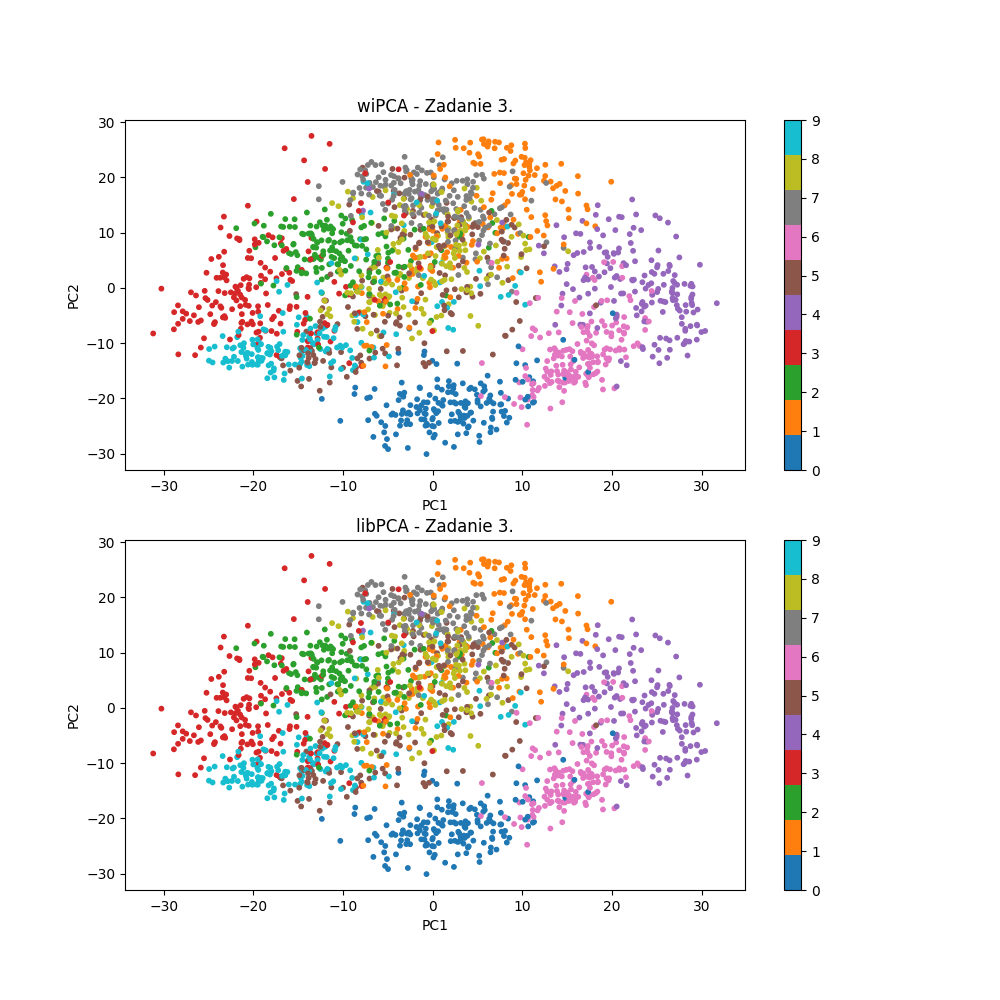
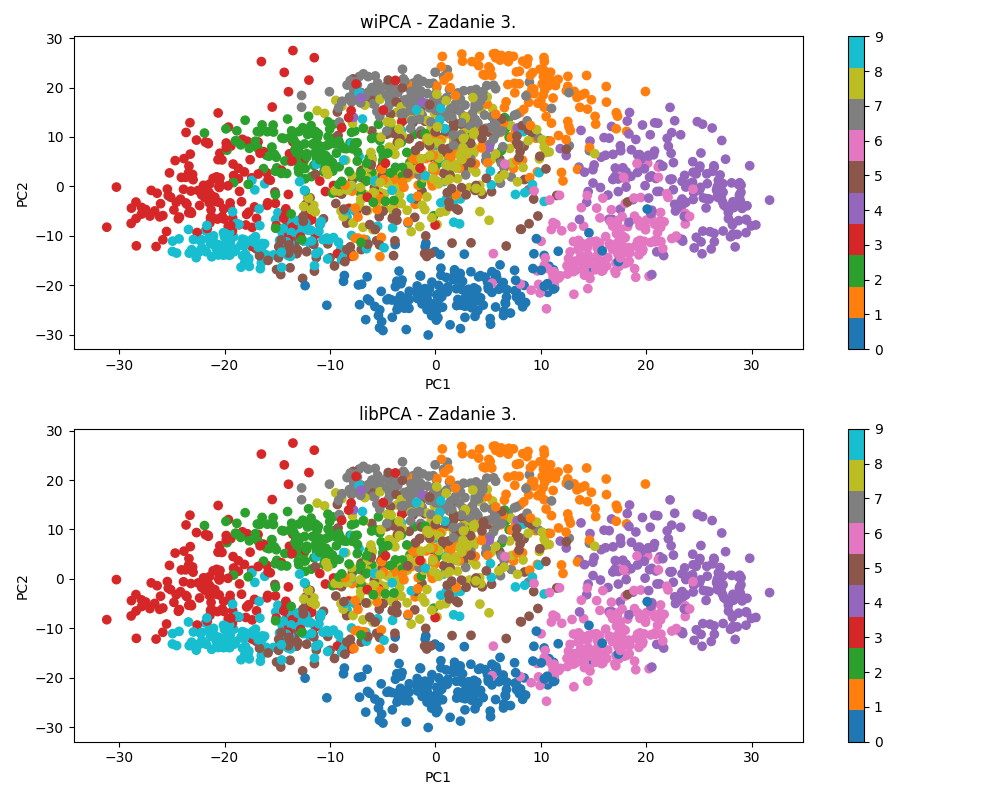
PiAD LAB07

diff --git a/Python/PiAD/LAB07.py b/Python/PiAD/LAB07.py
@@ -13,16 +13,16 @@ def wiPCA(X, dim):
     eigenVals = eigenVals[idx]
     eigenVecs = eigenVecs[:, idx]
     components = eigenVecs[:, :dim]
-    
+
     return X_centered @ components, eigenVecs, eigenVals, mean_vec
 
 
 # zadanie 1
 # a) Generowanie macierzy losowej
 X = np.random.randn(200, 2)
-X[:, 1] = 2 * X[:, 0] + 0.5 * np.random.randn(200)
+X[:, 1] = 0.75 * X[:, 0] + np.random.randn(200)
 
-# b) Wizualizacja
+# b) Wizualizacja losowych punktów
 plt.scatter(X[:, 0], X[:, 1], color='green')
 plt.xlabel("X1")
 plt.ylabel("X2")
@@ -32,24 +32,25 @@ plt.axis("equal")
 XReduced, eigVecs, eigVals, meanVec = wiPCA(X, 1)
 
 # Rzut punktów na pierwszą składową
-first_component = eigVecs[:, 0]
-projection = ((X - meanVec) @ first_component[:, None]) * first_component + meanVec
+firstComponent = eigVecs[:, 0]
+projection = ((X - meanVec) @ firstComponent[:, None]) * firstComponent + meanVec
 
+# Wizualicja rzutowania
 plt.scatter(projection[:, 0], projection[:, 1], color='red')
 plt.title("PCA Zadanie 1.")
 plt.axis("equal")
 
 # Wizualizacja wektorów własnych
-origin = meanVec
+pos00 = meanVec
 vec = eigVecs[:, 0]
 length = np.sqrt(eigVals[0]) * 2
-plt.quiver(origin[0], origin[1],
+plt.quiver(pos00[0], pos00[1],
             vec[0] * length, vec[1] * length,
             angles='xy', scale_units='xy', scale=1, color='black')
 
 vec = eigVecs[:, 1]
 length = np.sqrt(eigVals[1]) * 2
-plt.quiver(origin[0], origin[1],
+plt.quiver(pos00[0], pos00[1],
             vec[0] * length, vec[1] * length,
             angles='xy', scale_units='xy', scale=1, color='black')
 
@@ -64,25 +65,26 @@ X = iris.data
 y = iris.target
 
 # b) PCA
-X_pca, components, vals, meanVec = wiPCA(X, 2)
+Xpca, dims, vals, meanVec = wiPCA(X, 2)
 
 pca = PCA(2)
-X_pcaOrig = pca.fit_transform(X)
+XpcaOrig = pca.fit_transform(X)
 
 # c) Wizualizacja
-plt.figure(figsize=(10, 10))
+plt.figure(figsize=(10, 8))
 plt.subplot(2, 1, 1)
-plt.scatter(X_pca[:, 0], X_pca[:, 1], c=y, cmap='viridis', edgecolor='k')
+plt.scatter(Xpca[:, 0], Xpca[:, 1], c=y, cmap='viridis')
 plt.title("wiPCA - Zadanie 2.")
 plt.xlabel("PC1")
 plt.ylabel("PC2")
 
 plt.subplot(2, 1, 2)
-plt.scatter(X_pcaOrig[:, 0], X_pcaOrig[:, 1], c=y, cmap='viridis', edgecolor='k')
+plt.scatter(XpcaOrig[:, 0], XpcaOrig[:, 1], c=y, cmap='viridis')
 plt.title("libPCA - Zadanie 2.")
 plt.xlabel("PC1")
 plt.ylabel("PC2")
 
+plt.tight_layout()
 plt.savefig("plots/plot_LAB07_02.png")
 plt.show()
 
@@ -94,32 +96,15 @@ X = digits.data
 y = digits.target
 
 # b) PCA
-X_pca2, _, _, _ = wiPCA(X, 2)
-X_pcaOrig = pca.fit_transform(X)
+Xpca, _, _, _ = wiPCA(X, 2)
+XpcaOrig = pca.fit_transform(X)
 
-plt.figure(figsize=(10, 10))
-plt.subplot(2, 1, 1)
-plt.scatter(X_pca2[:, 0], X_pca2[:, 1], c=y, cmap='tab10', s=10)
-plt.title("wiPCA - Zadanie 3.")
-plt.xlabel("PC1")
-plt.ylabel("PC2")
-plt.colorbar()
-
-plt.subplot(2, 1, 2)
-plt.scatter(X_pcaOrig[:, 0], X_pcaOrig[:, 1], c=y, cmap='tab10', s=10)
-plt.title("libPCA - Zadanie 3.")
-plt.xlabel("PC1")
-plt.ylabel("PC2")
-plt.colorbar()
-
-plt.savefig("plots/plot_LAB07_03.png")
-plt.show()
 
 # c) Krzywa wariancji
 _, _, eigVals, _ = wiPCA(X, X.shape[1])
-explained_variance_ratio = eigVals / np.sum(eigVals)
+explainedVarianceRatio = eigVals / np.sum(eigVals)
 
-plt.plot(np.cumsum(explained_variance_ratio))
+plt.plot(np.cumsum(explainedVarianceRatio))
 plt.title("Kumulatywna wariancja (Digits)")
 plt.xlabel("Liczba komponentów")
 plt.ylabel("Kumulatywna wariancja")
@@ -128,23 +113,43 @@ plt.grid()
 plt.savefig("plots/plot_LAB07_04.png")
 plt.show()
 
-# d) Estymacja błędu
-def pca_inverse(X_reduced, components, mean_vec):
-    return X_reduced @ components.T + mean_vec
+# d)
+plt.figure(figsize=(10, 8))
+plt.subplot(2, 1, 1)
+plt.scatter(Xpca[:, 0], Xpca[:, 1], c=y, cmap='tab10')
+plt.title("wiPCA - Zadanie 3.")
+plt.xlabel("PC1")
+plt.ylabel("PC2")
+plt.colorbar()
 
-reconstruction_errors = []
-components_range = range(1, 65)
+plt.subplot(2, 1, 2)
+plt.scatter(XpcaOrig[:, 0], XpcaOrig[:, 1], c=y, cmap='tab10')
+plt.title("libPCA - Zadanie 3.")
+plt.xlabel("PC1")
+plt.ylabel("PC2")
+plt.colorbar()
 
-for n in components_range:
-    X_red, comps, _, mean = wiPCA(X, n)
-    X_rec = pca_inverse(X_red, comps[:, :n], mean)
+plt.tight_layout()
+plt.savefig("plots/plot_LAB07_03.png")
+plt.show()
+
+# e) Estymacja błędu
+def invPCA(XReduced, components, meanVec):
+    return XReduced @ components.T + meanVec
+
+errors = []
+dims = range(1, 65)
+
+for dim in dims:
+    X_red, comps, _, mean = wiPCA(X, dim)
+    X_rec = invPCA(X_red, comps[:, :dim], mean)
     error = np.mean(np.linalg.norm(X - X_rec, axis=1))
-    reconstruction_errors.append(error)
+    errors.append(error)
 
-plt.plot(components_range, reconstruction_errors)
-plt.title("Średni błąd rekonstrukcji (Digits)")
-plt.xlabel("Liczba komponentów")
-plt.ylabel("Błąd rekonstrukcji")
+plt.plot(dims, errors)
+plt.title("Błąd rekonstrukcji")
+plt.xlabel("Składowe")
+plt.ylabel("Błąd")
 plt.grid()
 plt.savefig("plots/plot_LAB07_05.png")
 plt.show()
